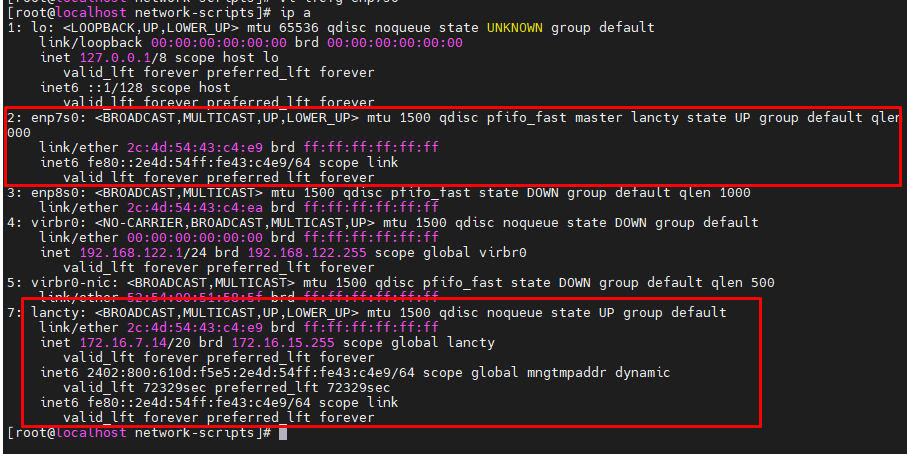
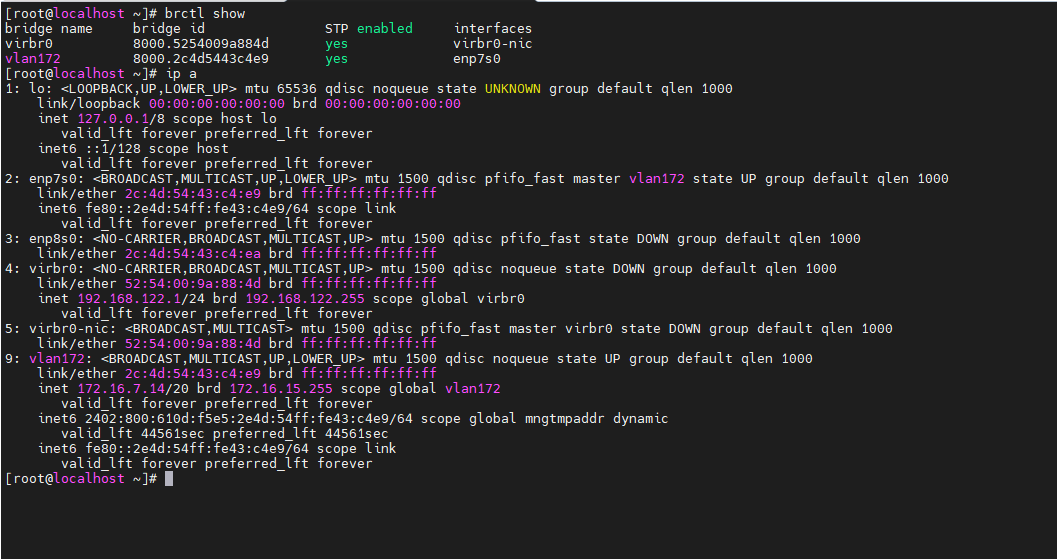
a

Changed region(s): [[0.0, 0.0, 1.0, 1.0]]

diff --git a/Ảo_hóa_KVM/Tìm hiểu về ảo hóa kvm.md b/Ảo_hóa_KVM/Tìm hiểu về ảo hóa kvm.md
@@ -93,12 +93,16 @@ systemctl enable libvirtd
 
 ## Tạo card mạng ảo publish mạng cty
 
-Di chuyển đến thư mục `/etc/sysconfig/network-scripts` tạo file mới có tên `ifcfg-lancty`
+Nguyên lý hoạt động: Trong không gian máy chủ KVM, Linux Bridge tạo switch ảo và add interface cho switch đó. Các card mạng bao gồm của máy chủ và máy ảo đều có thể add vào các switch ảo đã tạo. Những máy nào được add vào interface thuộc public network thì sẽ kết nối đươc với interner, tương tự với private network.
+
+Cấu hình : 
+
+Di chuyển đến thư mục `/etc/sysconfig/network-scripts` tạo file mới có tên `ifcfg-vlan172`
 Dùng vim để sửa file thành nội dung như sau :
 
 ```
-DEVICE=lancty
-BOOTPROTO=none
+DEVICE=vlan172
+BOOTPROTO=static
 IPADDR=172.16.7.14
 PREFIX=20
 GATEWAY=172.16.10.1
@@ -134,12 +138,59 @@ ONBOOT=yes
 #DNS1=8.8.8.8
 #DNS2=8.8.4.4
 #DEFROUTE=yes
-BRIDGE=lancty
+BRIDGE=vlan172
 NM_CONTROLLED=no
+```
+Thêm bridge vlan172 và add interface cho vlan
+
+```
+brctl addbr vlan172
+brctl addif vlan172 enp7s0
 ```
 
 Chạy `systemctl restart network` update lại cấu hình.
-Kiểm tra lại cấu hình mạng ta thấy đã nhận bridge lancty : 
+Kiểm tra lại cấu hình mạng ta thấy đã nhận bridge vlan172 : 
 
 ![6](https://github.com/laitiennhanhoa/Thu-viec-tai-Nhan-Hoa/blob/main/Ảo_hóa_KVM/image/6.png)
+
+## Publish VPS với vlan172
+
+Tiến hành tạo mới VPS như bình thường, sau khi cài đặt xong, vào cấu hình IP cho VPS theo dải vlan172, sau khi cấu hình xong kiểm tra lại như ảnh
+
+![7](https://github.com/laitiennhanhoa/Thu-viec-tai-Nhan-Hoa/blob/main/Ảo_hóa_KVM/image/7.png)
+
+SSH VPS từ MobaXtem qua vlan172
+
+![8](https://github.com/laitiennhanhoa/Thu-viec-tai-Nhan-Hoa/blob/main/Ảo_hóa_KVM/image/8.png)
+
+## Tạo Template và Snapshot trong KVM
+
+### Snapshot
+
+ * Tạo snapshot:
+ ```
+virsh snapshot-create-as --domain centos7.0 --name "centos7" --description "ban trang da update ngay 25.11"
+```
+
+ * Show các bản snapshot đã tạo
+```
+virsh snapshot-list centos7.0
+```
+
+* Xem thông tin chi tiết bản snapshot đã tạo
+```
+virsh snapshot-info centos7.0 --snapshotname "centos7"
+```
+
+* Reverse lại 1 bản snapshot đã tạo
+```
+virsh snapshot-revert centos7.0 --snapshotname "centos7"
+```
+
+* Xóa một bản snapshot đã tạo
+```
+virsh snapshot-delete centos7.0 --snapshotname "centos7"
+```
+
+![9](https://github.com/laitiennhanhoa/Thu-viec-tai-Nhan-Hoa/blob/main/Ảo_hóa_KVM/image/9.png)
 
